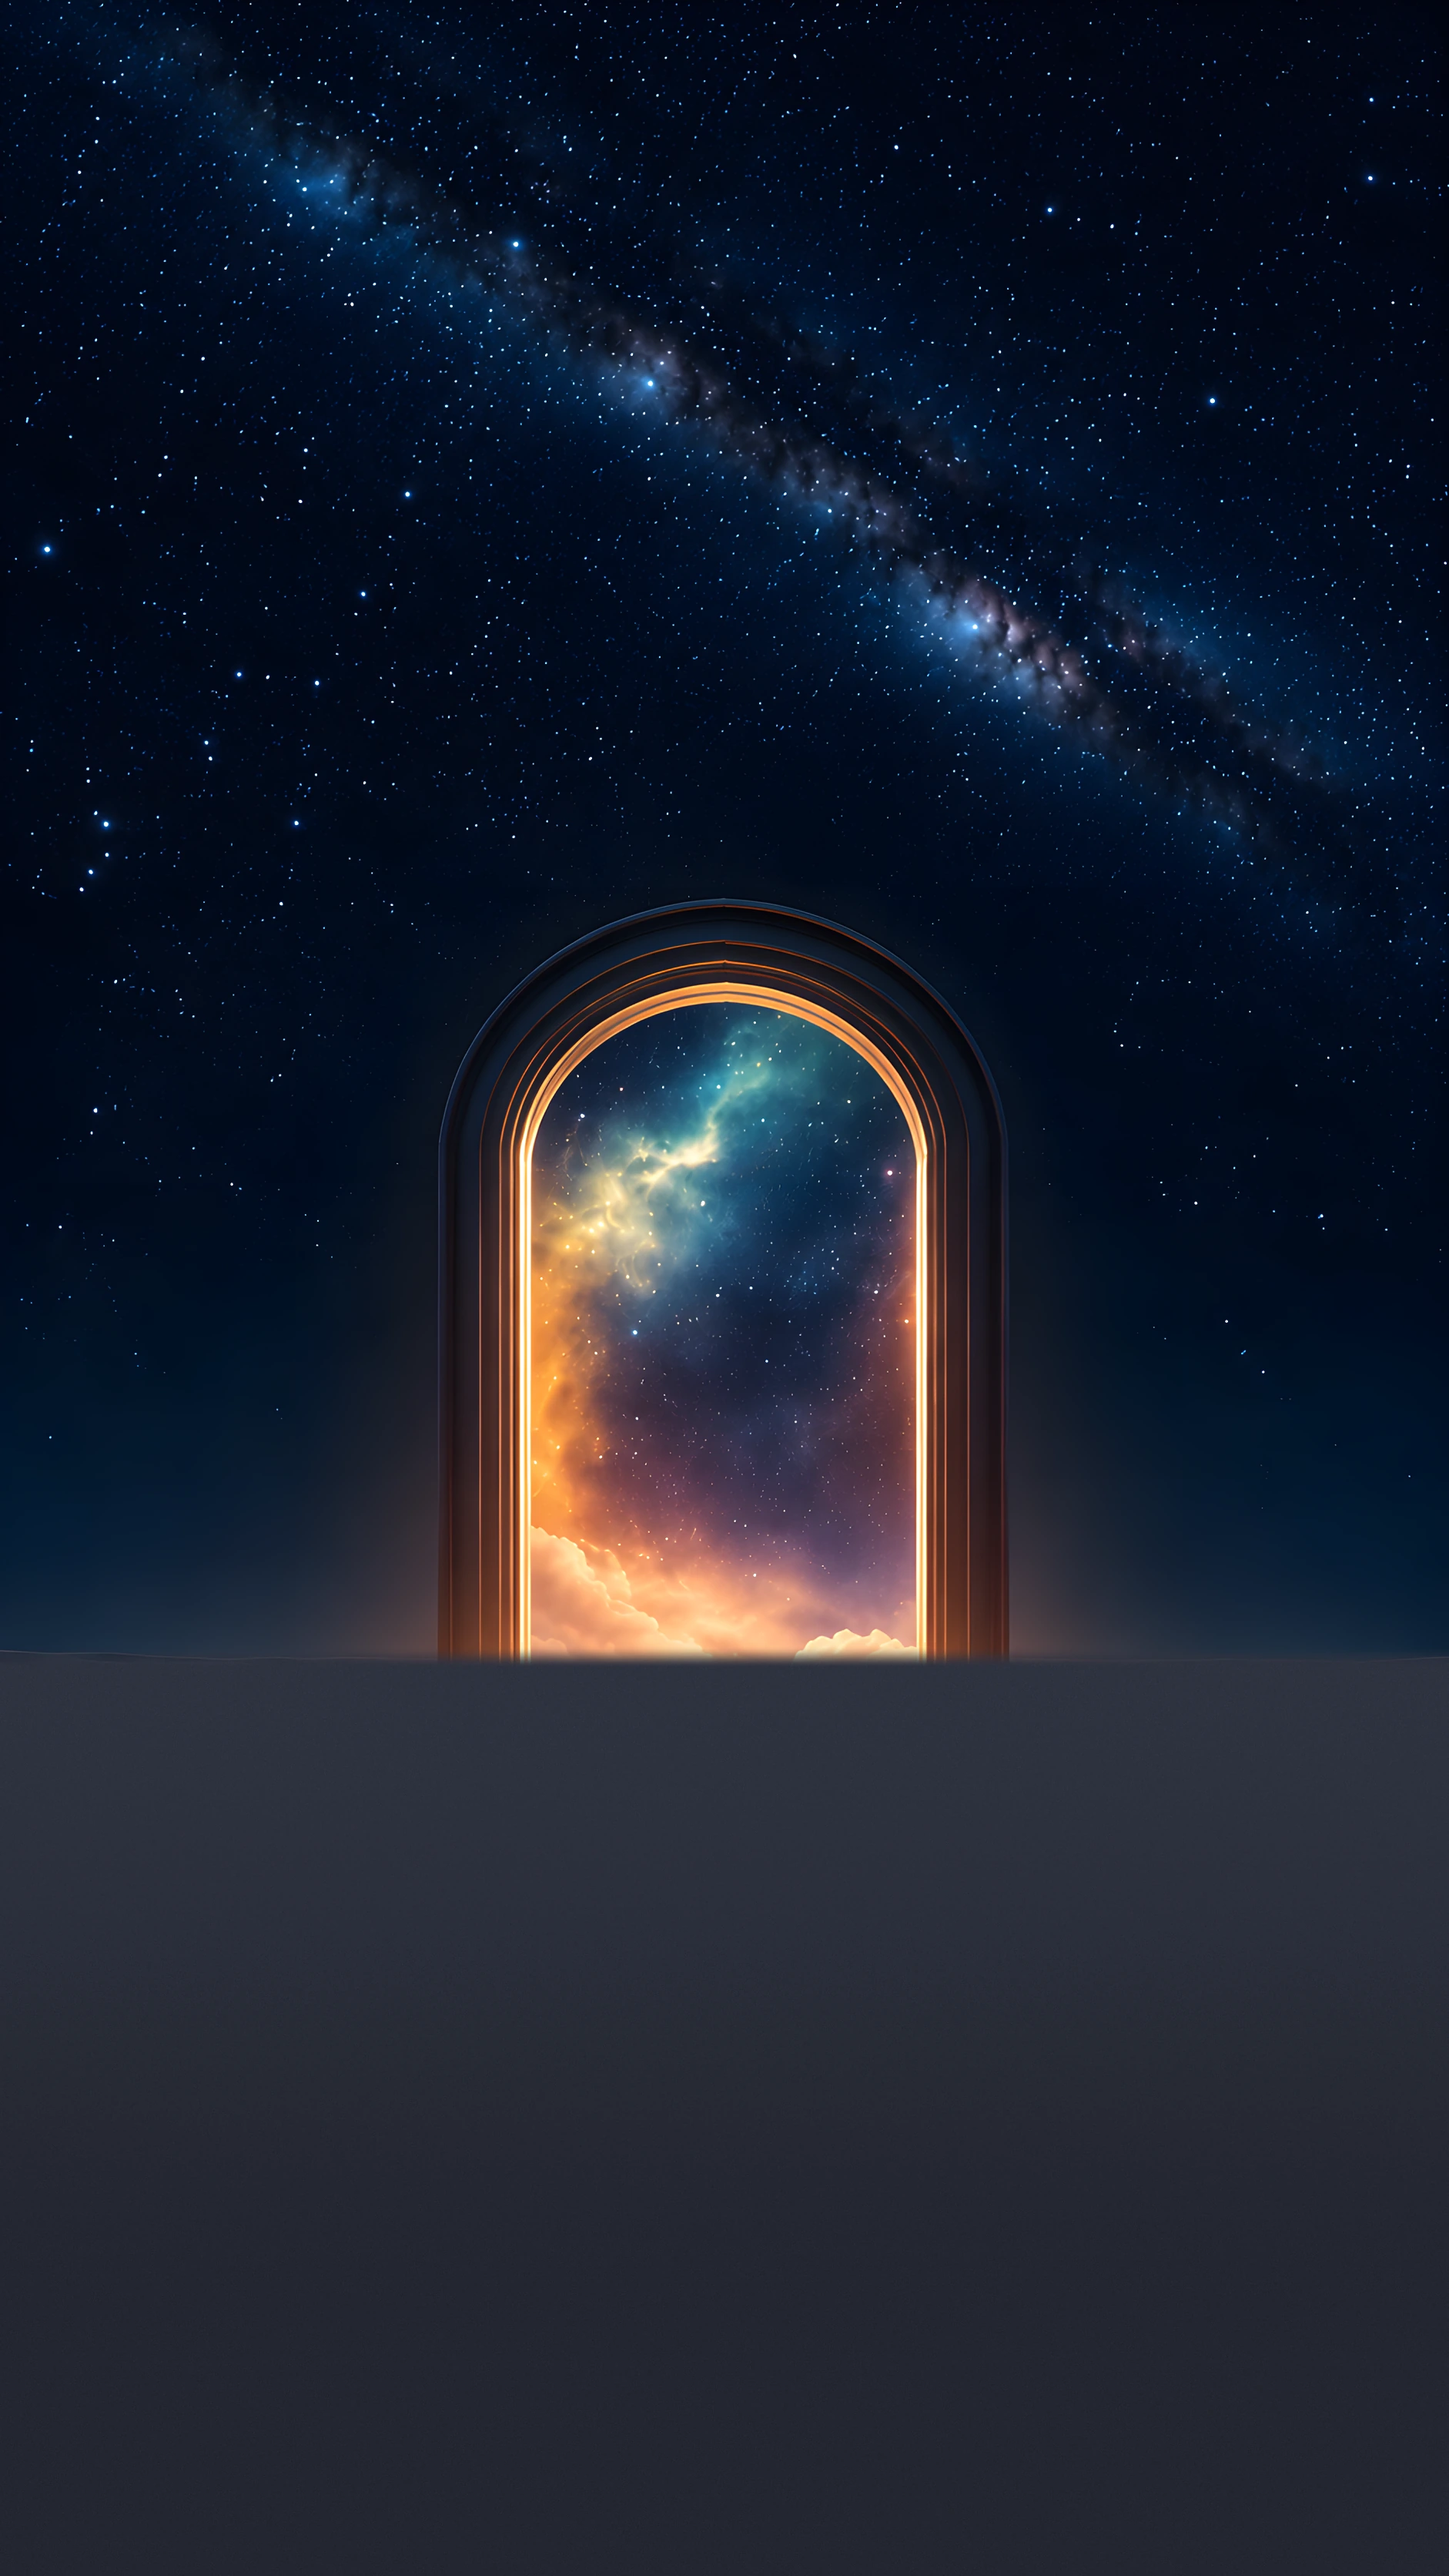
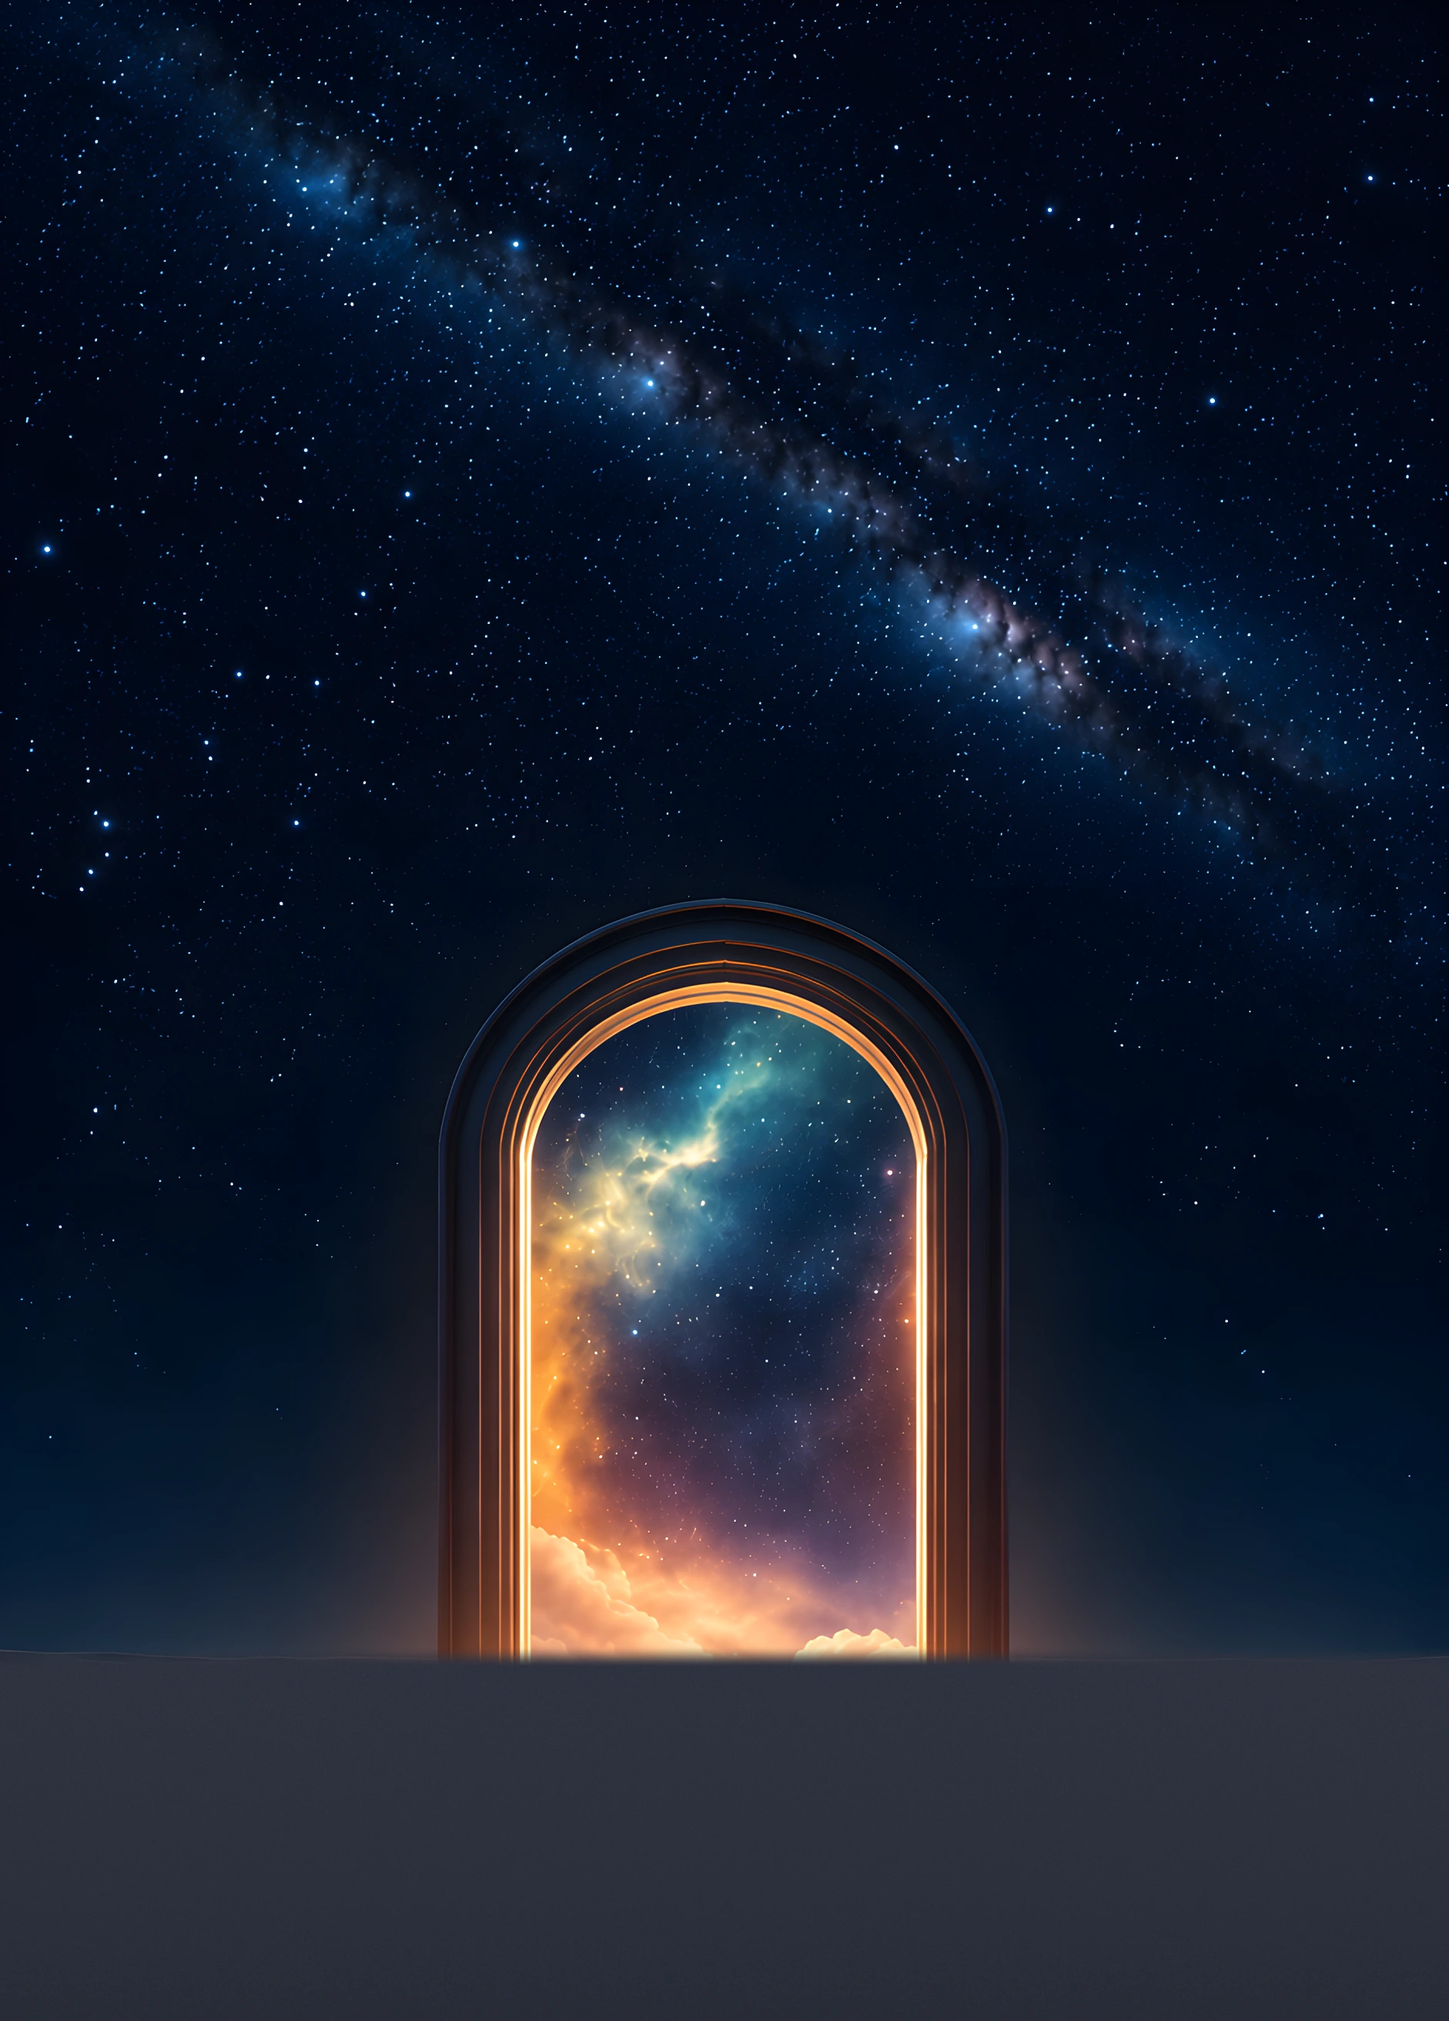
intro-v3 phone: pre-drawn layers moved by the GPU instead of redrawing each frame
The phone recording showed freezes of up to ~0.2 s while scrolling through
the door (the canvas redrew and re-decoded big images every frame). Each
layer is now drawn once into its own canvas and only transform/opacity
change while scrolling. Twinkling stars run as CSS animations. The view
through the door now always fills the opening. Sky layer cropped to its
visible part.

Claude-Session: https://claude.ai/code/session_01AeLuX7NKrY4xTLyEGDHywF

diff --git a/preview/intro-v3.html b/preview/intro-v3.html
@@ -44,8 +44,17 @@
 @media (min-aspect-ratio:1/1){.poem{top:max(64px,9%);display:flex;justify-content:center;align-items:center;gap:.5em;flex-wrap:nowrap;font-size:clamp(22px,min(2.9vw,5.6vh),48px)}.poem .hm{display:inline-block;white-space:nowrap}.poem .sep{margin:0}.poem.on .sep:before,.poem.on .sep:after{width:clamp(18px,2.4vw,40px)}}
 @media (max-aspect-ratio:1/1){.poem{top:calc(env(safe-area-inset-top,0px) + 78px);font-size:clamp(24px,min(7vw,4.2vh),40px)}}
 .poem.on .sep{opacity:1}.poem.on .sep:before,.poem.on .sep:after{width:clamp(50px,9vw,130px)}
-#cv,#st{position:absolute;inset:0;width:100%;height:100%;display:none}
-#st{pointer-events:none}
+/* phone scene: each layer is drawn once; while scrolling the graphics chip only moves and fades them (like video) */
+.world{position:absolute;inset:0;overflow:hidden;display:none;opacity:0;pointer-events:none;background:#04070f;transition:opacity .5s}
+.world .L{position:absolute;left:0;top:0;width:0;height:0;transform-origin:0 0;will-change:transform}
+.world canvas{position:absolute;display:block;opacity:0}
+#stars{position:absolute;left:0;top:0;width:0;height:0;will-change:opacity}
+#stars canvas{opacity:1;animation:tw var(--d) ease-in-out var(--dl) infinite}
+@keyframes tw{0%,100%{opacity:.15}50%{opacity:1}}
+#portal{position:absolute;overflow:hidden}
+.world .glow{mix-blend-mode:screen;mix-blend-mode:plus-lighter}
+.vig,.scrim,.hero,.hint,.bloom{will-change:opacity,transform}
+.line{will-change:opacity,transform,filter}
 .bloom{position:absolute;inset:0;pointer-events:none;opacity:0;background:radial-gradient(ellipse 80% 62% at 50% 44%,rgba(255,246,226,.97) 0%,rgba(255,216,154,.78) 36%,rgba(255,180,100,.30) 66%,rgba(255,160,80,0) 100%)}
 </style>
 </head>
@@ -55,8 +64,10 @@
 </header>
 <section id="scene"><div class="stick" id="stick">
   <video id="sv" muted playsinline preload="auto"></video>
-  <canvas id="cv"></canvas>
-  <canvas id="st"></canvas>
+  <div class="world" id="world">
+    <div class="L" id="skyL"><div id="stars"></div></div>
+    <div class="L" id="fgL"><div id="portal"><div class="L" id="cosL"></div></div></div>
+  </div>
   <div class="bloom" id="bloom"></div>
   <div class="vig" id="vig"></div>
   <div class="line poem"><span class="hm"><span class="w" style="--i:0">وتَحْسَبُ</span> <span class="w" style="--i:1">أنَّكَ</span> <span class="w" style="--i:2">جِرْمٌ</span> <span class="w" style="--i:3">صَغِيرٌ</span></span><span class="sep"><b>✦</b></span><span class="hm"><span class="w" style="--i:4">وفِيكَ</span> <span class="w" style="--i:5">انْطَوَى</span> <span class="w" style="--i:6">العَالَمُ</span> <span class="w" style="--i:7">الأَكْبَرُ</span></span></div>
@@ -129,72 +140,79 @@ function startVideo(){
  if(mob){const done=()=>{removeEventListener('touchstart',unlock);removeEventListener('touchend',unlock);};const unlock=()=>{if(!finished)return;const p=sv.play();if(p)p.then(()=>{sv.pause();kick();done();}).catch(()=>{});else{sv.pause();kick();}};addEventListener('touchstart',unlock,{passive:true});addEventListener('touchend',unlock,{passive:true});}
 }
 
-/* ---------- phone: layered photo scene drawn live at screen resolution ---------- */
-function startImages(){
+/* ---------- phone: layered photo scene. Every layer is drawn ONCE into its own canvas;
+   while scrolling only transforms/opacities change, so the GPU composites it like a video (no redraw, no re-decode) ---------- */
+function startLayers(){
  mode='img';sv.style.display='none';
- const cv=$('cv'),st=$('st'),bloom=$('bloom');cv.style.display=st.style.display='block';
- const ctx=cv.getContext('2d',{alpha:false}),sx=st.getContext('2d');
- const A='v3/',W=941,H=1672,Q=[470.5,960],OPC=[469.5,888.5],CC=[470.5,836];
+ const world=$('world'),skyL=$('skyL'),fgL=$('fgL'),cosL=$('cosL'),portal=$('portal'),starsEl=$('stars'),bloom=$('bloom');
+ world.style.display='block';
+ const A='v3/',W=941,H=1672,Q=[470.5,960],OPC=[469.5,888.5],CC=[470.5,836],PORT=[346,649.5,247,478.5];
  const NAMES=['sky','fg-lo','fg-mid','fg-hi','in-lo','in-hi','cosmos-1x','cosmos-2x','glow'];
  const EST={sky:391588,'fg-lo':345744,'fg-mid':489060,'fg-hi':399278,'in-lo':67548,'in-hi':169590,'cosmos-1x':225022,'cosmos-2x':589114,glow:30466};
- const SMAX=5,AP=.70,C0=.30,C1=1.06;
- let R,STARS,I={},CW=0,CH=0,K=1,OX=0,OY=0,DPR=1,S1=1.204,S2=1.806,ready=false;
+ const SMAX=5,AP=.70,C0=.75,C1=1.06,SKYH=1048,D=1.66;   /* C0: the view inside starts big enough to always fill the opening */
+ let R,STARS,VW=1,VH=1,Kc=1,OXc=0,OYc=0,DPR=1,S1=1.204,S2=1.806,ready=false;
+ const L={},blobs={};
  const state=p=>{const t=cl(p/AP),s=1/(1-t*(1-1/SMAX)),u=cl((p-AP)/(1-AP));
    const c=t<1?C0/(1-t*(1-C0/C1)):C1*(1+.07*ease(u));return {t,s,u,c};};
- const xf=s=>{const a=s*K,Sx=OX+K*Q[0],Sy=OY+K*Q[1];return [a,Sx-a*Q[0],Sy-a*Q[1]];};
- const arch=c=>{const xl=346,xr=593,top=649.5,bot=1128,r=(xr-xl)/2,cx=(xl+xr)/2,cy=top+r;
-   c.beginPath();c.moveTo(xl,bot);c.lineTo(xl,cy);c.arc(cx,cy,r,Math.PI,0,false);c.lineTo(xr,bot);c.closePath();};
- const inOuter=(x,y)=>{const xl=287,xr=654,top=585,r=(xr-xl)/2,cx=(xl+xr)/2,cy=top+r;
-   if(x<xl||x>xr||y<top)return false;return y>=cy||(x-cx)*(x-cx)+(y-cy)*(y-cy)<=r*r;};
- const put=(n,a,e,f)=>{const r=R[n];ctx.setTransform(a,0,0,a,e,f);ctx.drawImage(I[n],r[0],r[1],r[2],r[3]);};
+ const setT=(el,a,e,f)=>{const v='matrix('+a.toFixed(6)+',0,0,'+a.toFixed(6)+','+e.toFixed(2)+','+f.toFixed(2)+')';if(el._t!==v){el._t=v;el.style.transform=v;}};
+ const setO=(el,o)=>{const v=o<=.002?'0':o>=.998?'1':o.toFixed(3);if(el._o!==v){el._o=v;el.style.opacity=v;}};
+ const place=(el,r)=>{el.style.left=r[0]+'px';el.style.top=r[1]+'px';el.style.width=r[2]+'px';el.style.height=r[3]+'px';};
+ place(portal,PORT);   /* the opening (a plain rectangle is enough: the frame covers its corners) */
  function draw(p){
-  if(!ready)return;const {t,s,c}=state(p);
-  ctx.setTransform(1,0,0,1,0,0);ctx.globalAlpha=1;ctx.globalCompositeOperation='source-over';
-  ctx.fillStyle='#04070f';ctx.fillRect(0,0,CW,CH);
-  const [sa,se,sf]=xf(1+.04*t);ctx.setTransform(sa,0,0,sa,se,sf);ctx.drawImage(I.sky,0,0,W,H);
-  const [a,e,f]=xf(s),inA=1-sstep(1.12,1.9,s);
+  if(!ready)return;
+  const {t,s,c}=state(p),inside=s>=4.7,qx=OXc+Kc*Q[0],qy=OYc+Kc*Q[1];
+  const sa=(1+.04*t)*Kc;setT(skyL,sa,qx-sa*Q[0],qy-sa*Q[1]);setO(skyL,inside?0:1);   /* sky: almost still */
+  const a=s*Kc,e=qx-a*Q[0],f=qy-a*Q[1];setT(fgL,a,e,f);                              /* portal + ground: the camera moves in */
+  const inA=1-sstep(1.12,1.9,s);
   if(inA<1){  /* the universe seen through the opening: far away, so it grows slower than the arch */
-   const px=e+a*OPC[0],py=f+a*OPC[1],m=sstep(.5,1,t),cx=px+(CW/2-px)*m,cy=py+(CH/2-py)*m,ca=c*K;
-   ctx.save();ctx.setTransform(a,0,0,a,e,f);arch(ctx);ctx.clip();
-   ctx.setTransform(ca,0,0,ca,cx-ca*CC[0],cy-ca*CC[1]);ctx.drawImage(ca<1.05?I['cosmos-1x']:I['cosmos-2x'],0,0,W,H);
-   ctx.restore();}
-  if(s<4.7){
-   if(inA>0){ctx.globalAlpha=inA;put(s<S1?'in-lo':'in-hi',a,e,f);ctx.globalAlpha=1;}
-   ctx.globalCompositeOperation='lighter';ctx.globalAlpha=(.35+.6*sstep(1,3.2,s))*(1-sstep(3.6,4.6,s));put('glow',a,e,f);
-   ctx.globalCompositeOperation='source-over';ctx.globalAlpha=1;
-   put(s<S1?'fg-lo':s<S2?'fg-mid':'fg-hi',a,e,f);}  /* sharper level as soon as the current one would be enlarged */
-  bloom.style.opacity=(sstep(.53,.64,p)*(1-sstep(.67,.77,p))*.62).toFixed(3);
+   const px=e+a*OPC[0],py=f+a*OPC[1],m=sstep(.5,1,t),cx=px+(VW/2-px)*m,cy=py+(VH/2-py)*m;
+   const xL=Math.max(0,e+a*PORT[0]),xR=Math.min(VW,e+a*(PORT[0]+PORT[2])),yT=Math.max(0,f+a*PORT[1]),yB=Math.min(VH,f+a*(PORT[1]+PORT[3]));
+   const ca=Math.max(c*Kc,1.01*Math.max((cx-xL)/CC[0],(xR-cx)/(W-CC[0]),(cy-yT)/CC[1],(yB-cy)/(H-CC[1])));  /* never smaller than the visible opening */
+   setT(cosL,ca/a,(cx-ca*CC[0]-e)/a-PORT[0],(cy-ca*CC[1]-f)/a-PORT[1]);
+   const hi=ca*DPR>=1.15;setO(L['cosmos-1x'],hi?0:1);setO(L['cosmos-2x'],hi?1:0);
+  }else{setO(L['cosmos-1x'],0);setO(L['cosmos-2x'],0);}
+  const lo=s<S1,mid=!lo&&s<S2;   /* sharper level as soon as the current one would be enlarged */
+  setO(L['in-lo'],!inside&&lo?inA:0);setO(L['in-hi'],!inside&&!lo?inA:0);
+  setO(L.glow,inside?0:(.35+.6*sstep(1,3.2,s))*(1-sstep(3.6,4.6,s)));
+  setO(L['fg-lo'],!inside&&lo?1:0);setO(L['fg-mid'],!inside&&mid?1:0);setO(L['fg-hi'],!inside&&!lo&&!mid?1:0);
+  setO(starsEl,1-sstep(2.6,4.2,s));
+  setO(bloom,sstep(.53,.64,p)*(1-sstep(.67,.77,p))*.62);
  }
- let lastS=0;
- function twinkle(now){requestAnimationFrame(twinkle);
-  if(!ready||now-lastS<30)return;lastS=now;
-  sx.setTransform(1,0,0,1,0,0);sx.clearRect(0,0,CW,CH);
-  const {t,s}=state(sm);if(s>4.6)return;
-  const [sa,se,sf]=xf(1+.04*t),[a,e,f]=xf(s),T=now/1000,fade=1-sstep(2.6,4.2,s);
-  for(const S of STARS){const px=se+sa*S[0],py=sf+sa*S[1],ux=(px-e)/a,uy=(py-f)/a;
-   if(uy>1068||inOuter(ux,uy))continue;
-   const tw=.5+.5*Math.sin(T*S[4]+S[3]),al=(.18+.82*tw)*fade,r=S[2]*DPR*(.7+.4*tw);
-   sx.globalAlpha=al;sx.fillStyle=S[5]?'#d4e6ff':'#fff';sx.beginPath();sx.arc(px,py,r,0,6.2832);sx.fill();
-   if(S[2]>1.25){sx.globalAlpha=al*.45;const L=r*3.2,w=.6*DPR;sx.fillRect(px-L,py-w/2,2*L,w);sx.fillRect(px-w/2,py-L,w,2*L);}}
-  sx.globalAlpha=1;}
- function size(){DPR=Math.min(devicePixelRatio||1,3);const w=stick.clientWidth,h=stick.clientHeight;
-  cv.width=st.width=Math.round(w*DPR);cv.height=st.height=Math.round(h*DPR);CW=cv.width;CH=cv.height;
-  K=Math.max(CW/W,CH/H);OX=(CW-W*K)/2;OY=(CH-H*K)/2;S1=Math.max(1.204,2/K);S2=Math.max(1.806,3/K);ctx.imageSmoothingEnabled=true;ctx.imageSmoothingQuality='high';draw(sm);}
+ function size(){DPR=Math.min(devicePixelRatio||1,3);VW=stick.clientWidth;VH=stick.clientHeight;
+  Kc=Math.max(VW/W,VH/H);OXc=(VW-W*Kc)/2;OYc=(VH-H*Kc)/2;const KD=Kc*DPR;S1=Math.max(1.204,2/KD);S2=Math.max(1.806,3/KD);draw(sm);}
  let lastW=0;addEventListener('resize',()=>{if(innerWidth===lastW)return;lastW=innerWidth;size();});
  step=p=>{draw(p);return false;};
+ const paint=async n=>{  /* decode once (off the main thread when possible) and draw once */
+  const c=L[n],b=blobs[n];let src,done=()=>{};
+  if(self.createImageBitmap){src=await createImageBitmap(b);done=()=>{if(src.close)src.close();};}
+  else{const u=URL.createObjectURL(b);src=new Image();src.src=u;await src.decode();done=()=>URL.revokeObjectURL(u);}
+  c.width=src.width;c.height=src.height;c.getContext('2d',{alpha:!(n==='sky'||n.startsWith('cosmos'))}).drawImage(src,0,0);done();};
+ const paintStars=()=>{const G=[...starsEl.children];
+  for(const c of G){c.width=Math.round(W*D);c.height=Math.round(SKYH*D);}
+  STARS.forEach((S,i)=>{const x=G[i%G.length].getContext('2d'),px=S[0]*D,py=S[1]*D,r=S[2]*.95*D,col=S[5]?'212,230,255':'255,255,255';
+   const g=x.createRadialGradient(px,py,0,px,py,r*2.4);g.addColorStop(0,'rgba('+col+',.32)');g.addColorStop(1,'rgba('+col+',0)');   /* faint glow */
+   x.fillStyle=g;x.beginPath();x.arc(px,py,r*2.4,0,6.2832);x.fill();
+   x.fillStyle='rgb('+col+')';x.beginPath();x.arc(px,py,r,0,6.2832);x.fill();                                                       /* crisp core */
+   if(S[2]>1.25){x.fillStyle='rgba('+col+',.45)';const Ls=r*3.4,w=1.1;x.fillRect(px-Ls,py-w/2,2*Ls,w);x.fillRect(px-w/2,py-Ls,w,2*Ls);}});};
  (async()=>{
   const meta=await (await fetch(A+'scene.json')).json();R=meta.R;STARS=meta.stars;
-  R.sky=[0,0,W,H];R['cosmos-1x']=[0,0,W,H];R['cosmos-2x']=[0,0,W,H];
+  const mk=(n,parent,before)=>{const c=document.createElement('canvas');place(c,R[n]);parent.insertBefore(c,before||null);L[n]=c;return c;};
+  mk('sky',skyL,starsEl).style.opacity='1';                       /* bottom to top */
+  for(let i=0;i<3;i++){const c=document.createElement('canvas');place(c,[0,0,W,SKYH]);   /* 3 groups, each on its own rhythm */
+   c.style.setProperty('--d',[2.6,3.7,4.9][i]+'s');c.style.setProperty('--dl',(-1.7*i)+'s');starsEl.appendChild(c);
+   c.addEventListener('contextrestored',paintStars);}
+  mk('cosmos-1x',cosL);mk('cosmos-2x',cosL);
+  for(const n of ['in-lo','in-hi','glow','fg-lo','fg-mid','fg-hi'])mk(n,fgL);L.glow.className='glow';
   const prog={},upd=()=>{let g=0,tt=0;for(const n of NAMES){const q=prog[n]||[0,0];g+=q[0];tt+=q[1]||EST[n];}bar.style.width=(g/tt*100).toFixed(1)+'%';};
-  await Promise.all(NAMES.map(async n=>{const b=await getBlob(A+n+'.webp',(g,t)=>{prog[n]=[g,t];upd();});
-   const im=new Image();im.src=URL.createObjectURL(b);await im.decode();I[n]=im;}));
+  await Promise.all(NAMES.map(async n=>{blobs[n]=await getBlob(A+n+'.webp',(g,t)=>{prog[n]=[g,t];upd();});await paint(n);}));
+  paintStars();
+  for(const n of NAMES)L[n].addEventListener('contextrestored',()=>paint(n));   /* if the system ever drops a layer, draw it again */
   ready=true;lastW=innerWidth;size();
-  ctx.setTransform(1,0,0,1,0,0);for(const n of NAMES)ctx.drawImage(I[n],0,0,4,4);draw(sm);  /* upload every layer once now, so no hitch mid-scroll */
-  requestAnimationFrame(twinkle);release();
- })().catch(err=>{console.error(err);cv.style.display=st.style.display='none';startVideo();});
+  requestAnimationFrame(()=>{world.style.opacity='1';release();});
+ })().catch(err=>{console.error(err);world.style.display='none';startVideo();});
 }
 
-if(mob)startImages();else startVideo();
+if(mob)startLayers();else startVideo();
 addEventListener('resize',f);
 $('skip').addEventListener('click',()=>lock(false));
 $('skip').addEventListener('click',e=>{e.preventDefault();scrollTo({top:scene.offsetHeight-innerHeight,behavior:'smooth'});});
